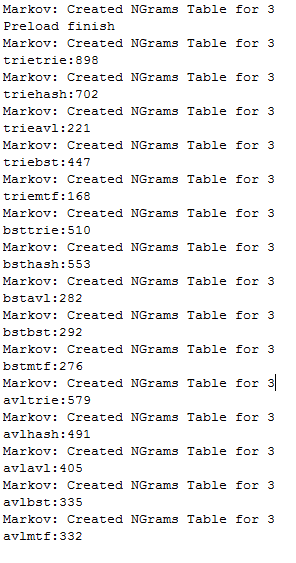
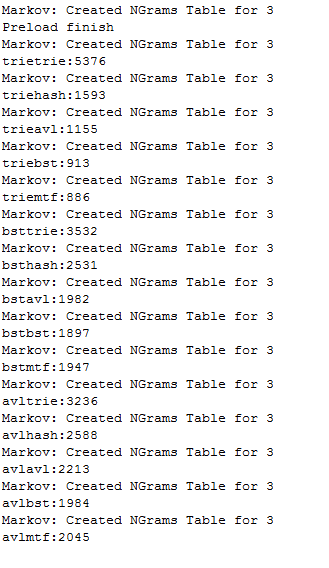
png mid

diff --git a/src/experiment/generalDictNGramTester.java b/src/experiment/generalDictNGramTester.java
@@ -14,7 +14,7 @@ import p2.wordsuggestor.WordSuggestor;
 
 public class generalDictNGramTester {
     
-    public static final String FILE_NAME = "spoken.corpus";
+    public static final String FILE_NAME = "archive.txt";
 
     @SuppressWarnings({ "rawtypes", "unchecked" })
     public static <K, V> Supplier<Dictionary<K, V>> bstConstructor() {
@@ -43,8 +43,8 @@ public class generalDictNGramTester {
     public static void main(String[] args) {
         preload();
 
-//        trietrie();
-//        triehash();
+        trietrie();
+        triehash();
         trieavl();
         triebst();
         triemtf();
@@ -61,17 +61,17 @@ public class generalDictNGramTester {
 //        hashbst();
 //        hashmtf();
         
-//        bsttrie();
-//        bsthash();
-//        bstavl();
-//        bstbst();
-//        bstmtf();
-//        
-//        avltrie();
-//        avlhash();
-//        avlavl();
-//        avlbst();
-//        avlmtf();
+        bsttrie();
+        bsthash();
+        bstavl();
+        bstbst();
+        bstmtf();
+        
+        avltrie();
+        avlhash();
+        avlavl();
+        avlbst();
+        avlmtf();
    }
 
     
